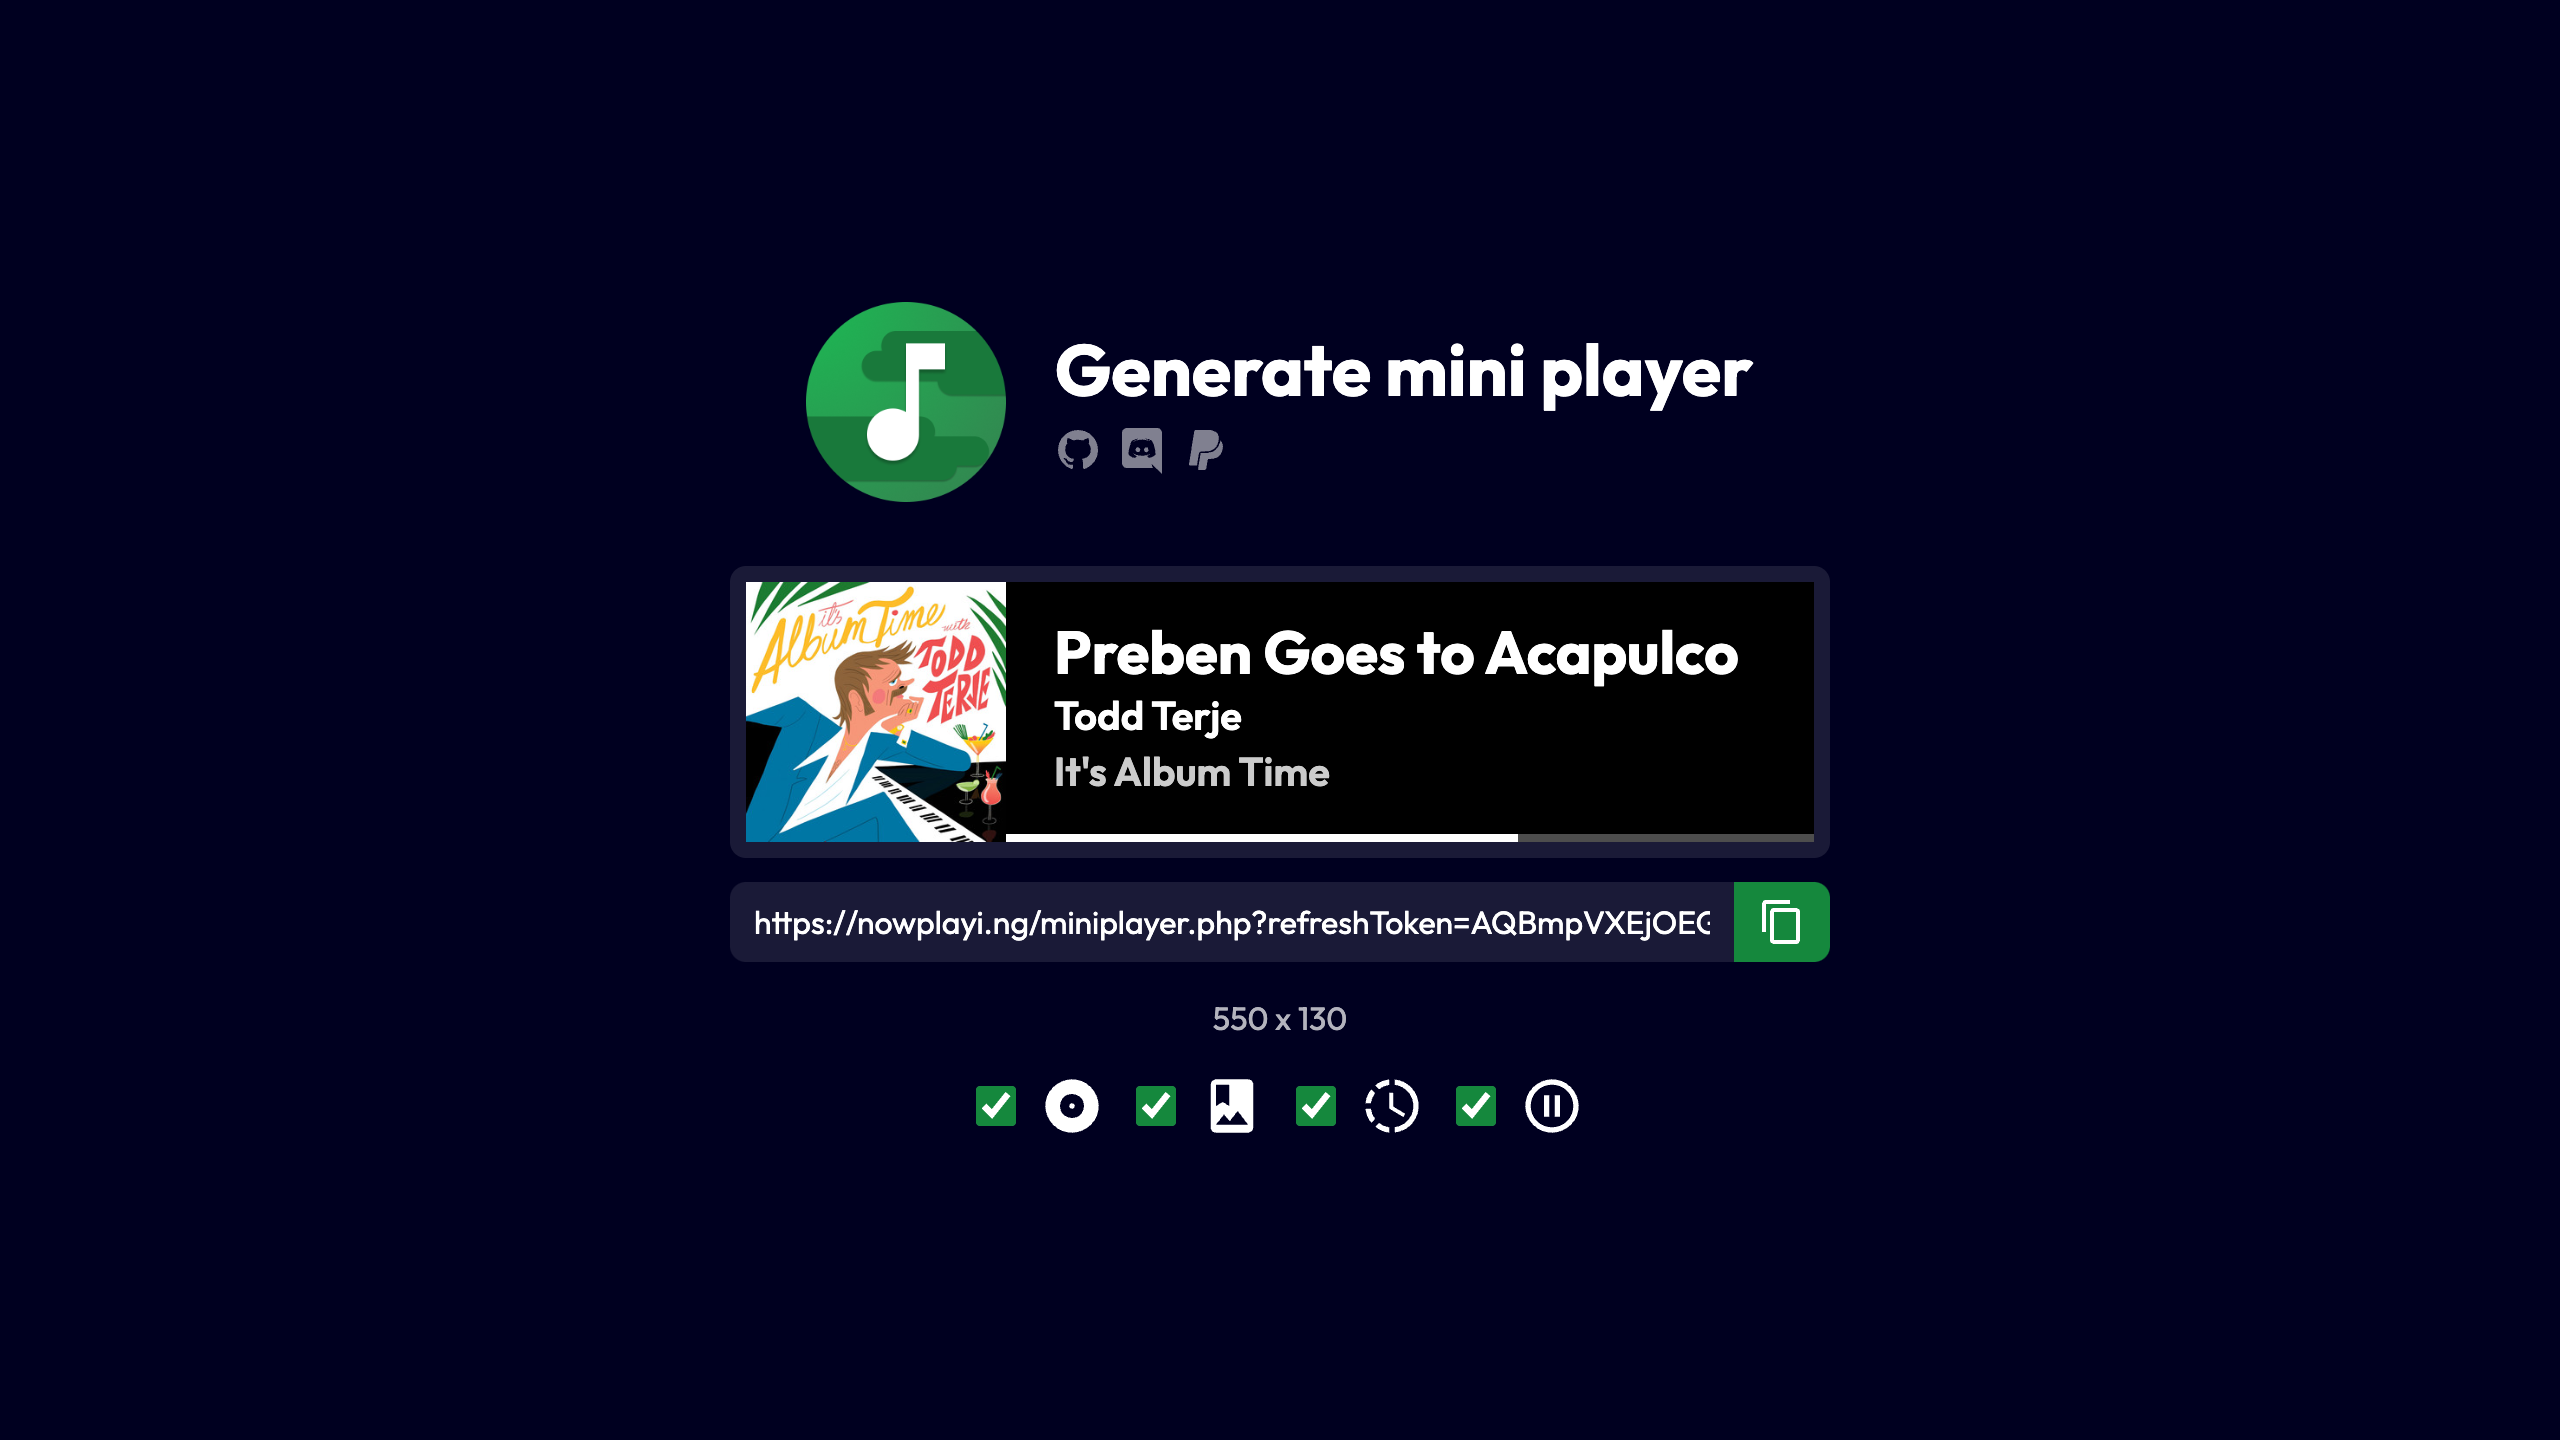
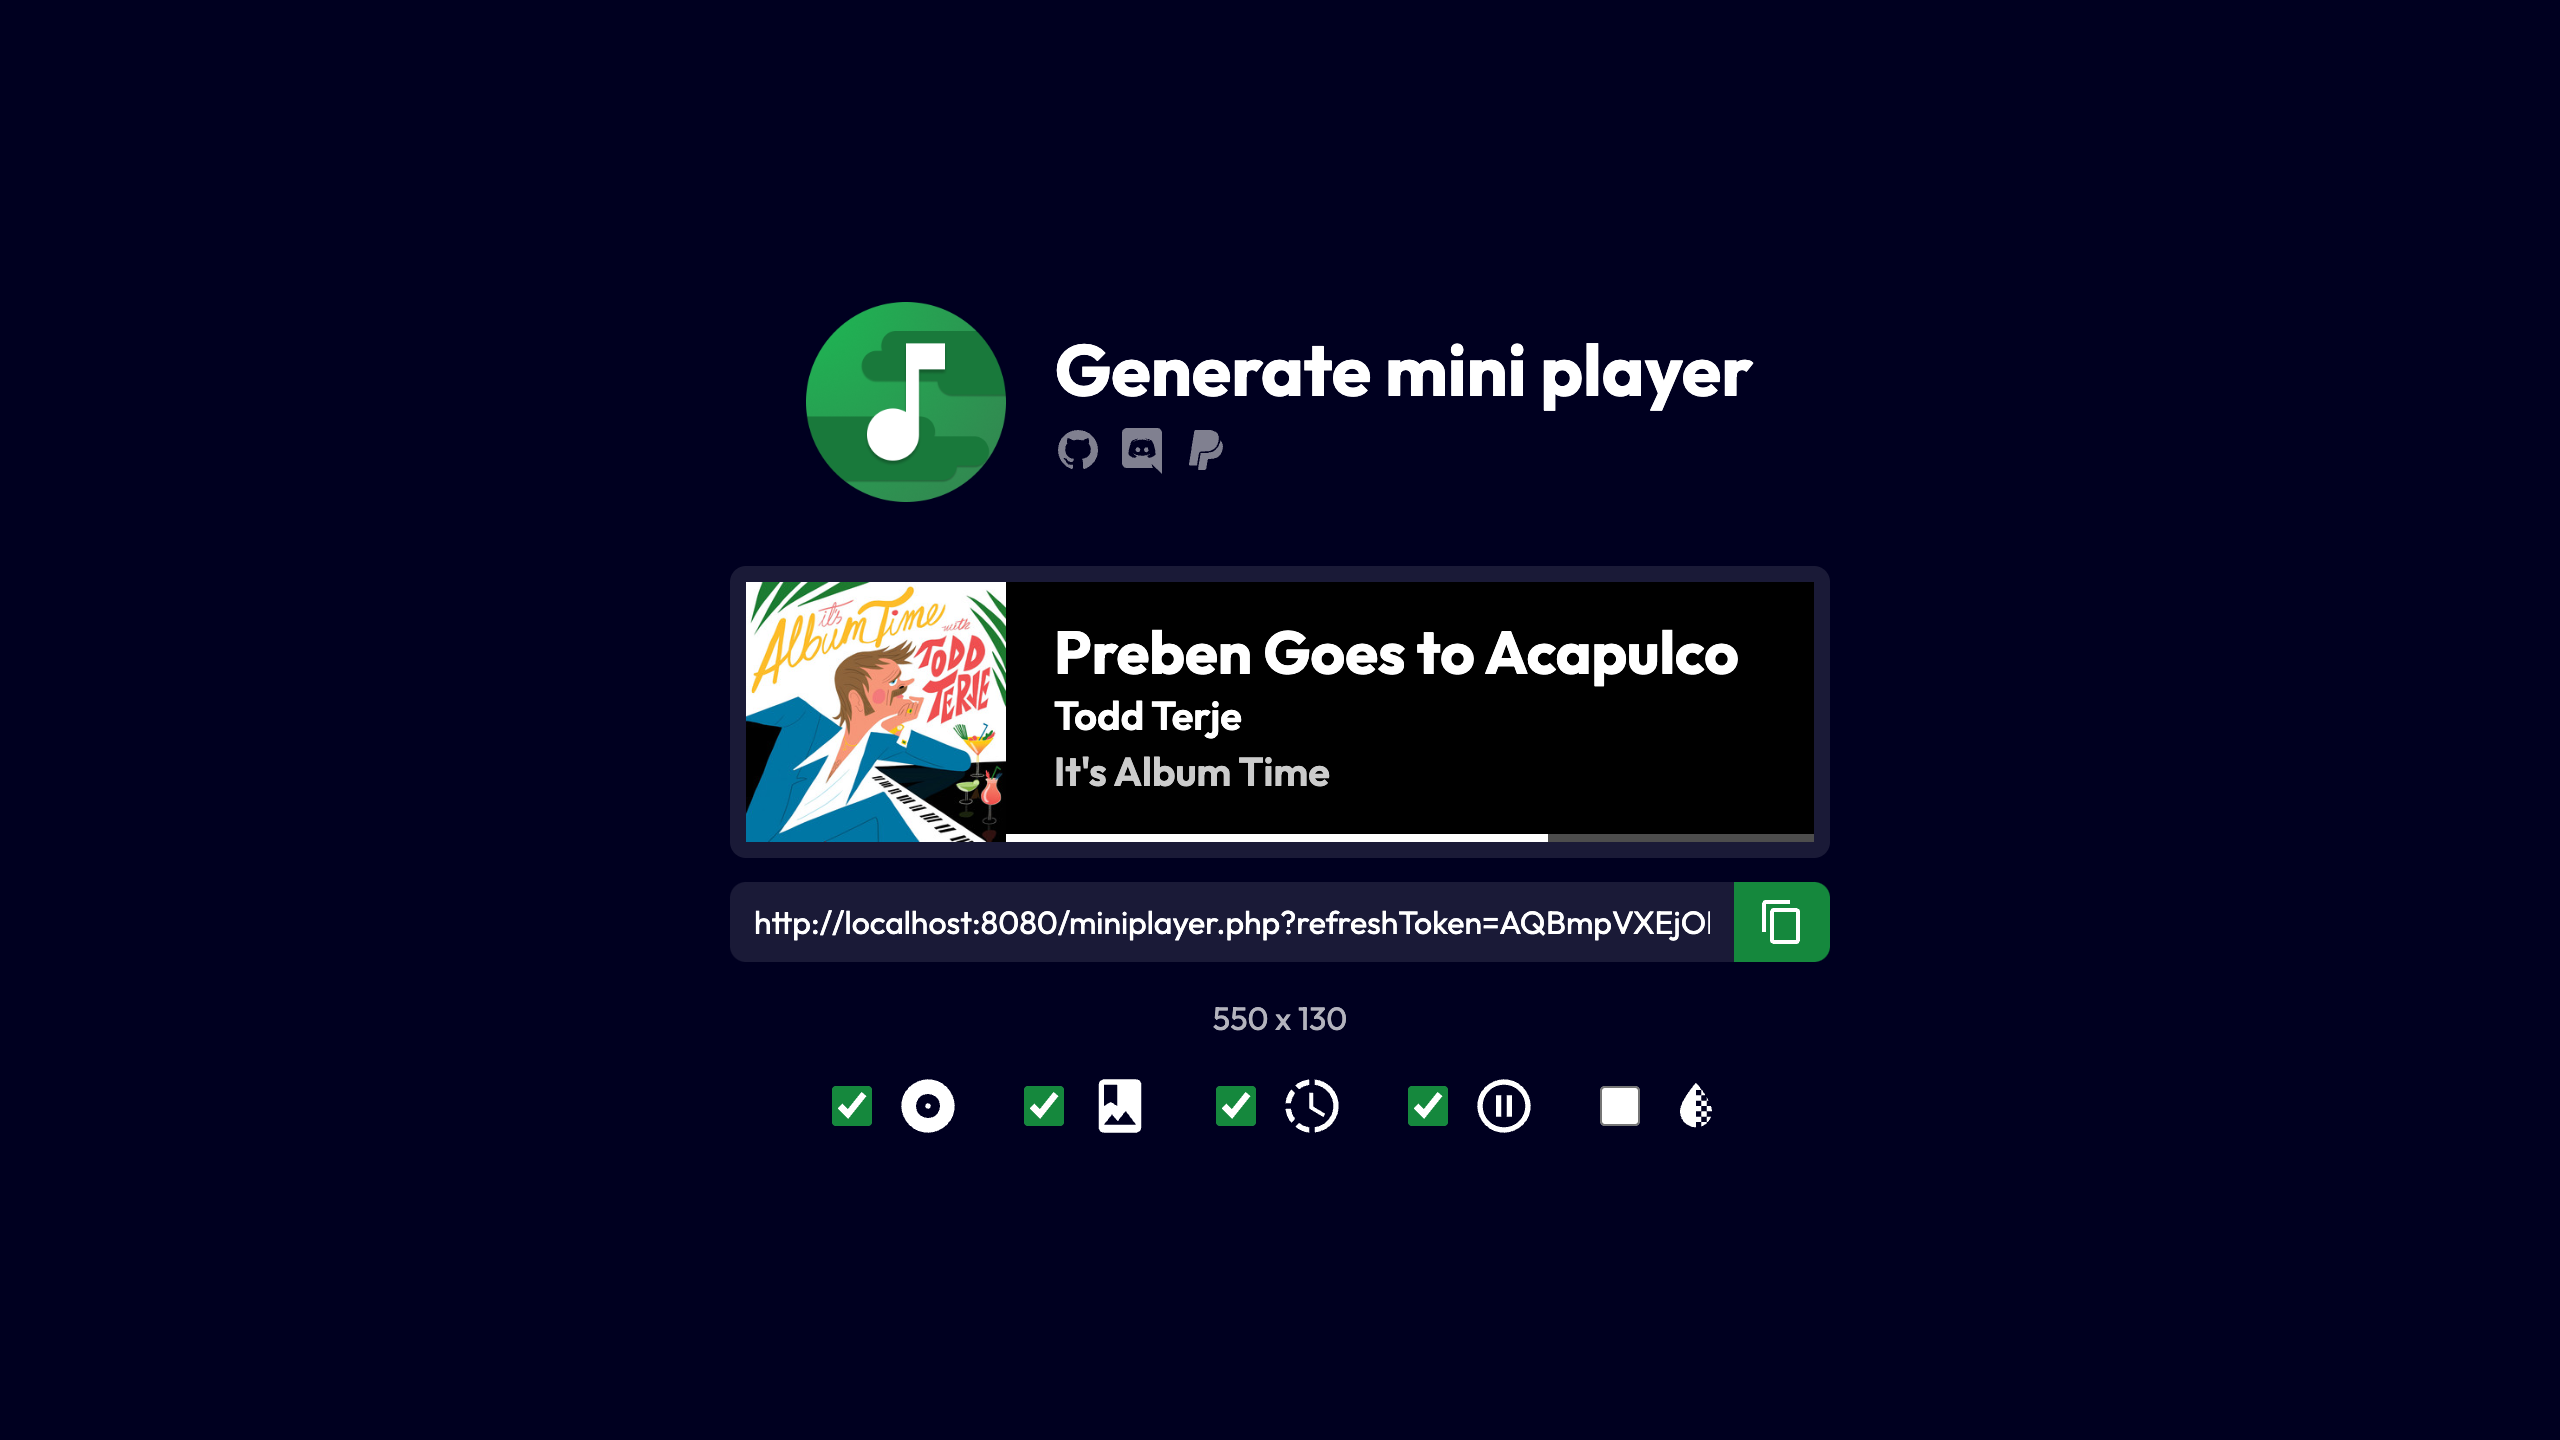
miniplayer: Transparent background setting

Changed region(s): [[0.3125, 0.75, 0.6875, 0.8125], [0.3125, 0.625, 0.6875, 0.6562]]

diff --git a/generate_miniplayer.php b/generate_miniplayer.php
@@ -134,7 +134,7 @@ if(isset($_GET['lang'])){
     <span class="mt-4 text-white/70 hover:text-white transition">550 x 130</span>
 
     <!-- Config player -->
-    <div class="flex flex-row gap-4 flex-wrap mt-4">
+    <div class="flex flex-row gap-8 flex-wrap mt-4">
       <div class="flex flex-row gap-3 items-center">
         <input type="checkbox" id="showAlbum" x-model="playerConfig.showAlbum" class="accent-[#15883D] h-5 w-5">
         <label for="showAlbum">
@@ -145,21 +145,28 @@ if(isset($_GET['lang'])){
       <div class="flex flex-row gap-3 items-center">
         <input type="checkbox" id="showArtwork" x-model="playerConfig.showArtwork" class="accent-[#15883D] h-5 w-5">
         <label for="showArtwork">
-        <svg xmlns="http://www.w3.org/2000/svg" viewBox="0 0 24 24" class="h-8 w-8" fill="currentColor"><path d="M6,19L9,15.14L11.14,17.72L14.14,13.86L18,19H6M6,4H11V12L8.5,10.5L6,12M18,2H6A2,2 0 0,0 4,4V20A2,2 0 0,0 6,22H18A2,2 0 0,0 20,20V4A2,2 0 0,0 18,2Z" /></svg>
+          <svg xmlns="http://www.w3.org/2000/svg" viewBox="0 0 24 24" class="h-8 w-8" fill="currentColor"><path d="M6,19L9,15.14L11.14,17.72L14.14,13.86L18,19H6M6,4H11V12L8.5,10.5L6,12M18,2H6A2,2 0 0,0 4,4V20A2,2 0 0,0 6,22H18A2,2 0 0,0 20,20V4A2,2 0 0,0 18,2Z" /></svg>
         </label>
       </div>
 
       <div class="flex flex-row gap-3 items-center">
         <input type="checkbox" id="showProgress" x-model="playerConfig.showProgress" class="accent-[#15883D] h-5 w-5">
         <label for="showProgress">
-        <svg xmlns="http://www.w3.org/2000/svg" viewBox="0 0 24 24" class="h-8 w-8" fill="currentColor"><path d="M13,2.03V2.05L13,4.05C17.39,4.59 20.5,8.58 19.96,12.97C19.5,16.61 16.64,19.5 13,19.93V21.93C18.5,21.38 22.5,16.5 21.95,11C21.5,6.25 17.73,2.5 13,2.03M11,2.06C9.05,2.25 7.19,3 5.67,4.26L7.1,5.74C8.22,4.84 9.57,4.26 11,4.06V2.06M4.26,5.67C3,7.19 2.25,9.04 2.05,11H4.05C4.24,9.58 4.8,8.23 5.69,7.1L4.26,5.67M2.06,13C2.26,14.96 3.03,16.81 4.27,18.33L5.69,16.9C4.81,15.77 4.24,14.42 4.06,13H2.06M7.1,18.37L5.67,19.74C7.18,21 9.04,21.79 11,22V20C9.58,19.82 8.23,19.25 7.1,18.37M12.5,7V12.25L17,14.92L16.25,16.15L11,13V7H12.5Z" /></svg>
+          <svg xmlns="http://www.w3.org/2000/svg" viewBox="0 0 24 24" class="h-8 w-8" fill="currentColor"><path d="M13,2.03V2.05L13,4.05C17.39,4.59 20.5,8.58 19.96,12.97C19.5,16.61 16.64,19.5 13,19.93V21.93C18.5,21.38 22.5,16.5 21.95,11C21.5,6.25 17.73,2.5 13,2.03M11,2.06C9.05,2.25 7.19,3 5.67,4.26L7.1,5.74C8.22,4.84 9.57,4.26 11,4.06V2.06M4.26,5.67C3,7.19 2.25,9.04 2.05,11H4.05C4.24,9.58 4.8,8.23 5.69,7.1L4.26,5.67M2.06,13C2.26,14.96 3.03,16.81 4.27,18.33L5.69,16.9C4.81,15.77 4.24,14.42 4.06,13H2.06M7.1,18.37L5.67,19.74C7.18,21 9.04,21.79 11,22V20C9.58,19.82 8.23,19.25 7.1,18.37M12.5,7V12.25L17,14.92L16.25,16.15L11,13V7H12.5Z" /></svg>
         </label>
       </div>
 
       <div class="flex flex-row gap-3 items-center">
         <input type="checkbox" id="showPause" x-model="playerConfig.showPause" class="accent-[#15883D] h-5 w-5">
         <label for="showPause">
-        <svg xmlns="http://www.w3.org/2000/svg" viewBox="0 0 24 24" class="h-8 w-8" fill="currentColor"><path d="M13,16V8H15V16H13M9,16V8H11V16H9M12,2A10,10 0 0,1 22,12A10,10 0 0,1 12,22A10,10 0 0,1 2,12A10,10 0 0,1 12,2M12,4A8,8 0 0,0 4,12A8,8 0 0,0 12,20A8,8 0 0,0 20,12A8,8 0 0,0 12,4Z" /></svg>
+          <svg xmlns="http://www.w3.org/2000/svg" viewBox="0 0 24 24" class="h-8 w-8" fill="currentColor"><path d="M13,16V8H15V16H13M9,16V8H11V16H9M12,2A10,10 0 0,1 22,12A10,10 0 0,1 12,22A10,10 0 0,1 2,12A10,10 0 0,1 12,2M12,4A8,8 0 0,0 4,12A8,8 0 0,0 12,20A8,8 0 0,0 20,12A8,8 0 0,0 12,4Z" /></svg>
+        </label>
+      </div>
+
+      <div class="flex flex-row gap-3 items-center">
+        <input type="checkbox" id="transparentBackground" x-model="playerConfig.transparentBackground" class="accent-[#15883D] h-5 w-5">
+        <label for="transparentBackground">
+          <svg xmlns="http://www.w3.org/2000/svg" viewBox="0 0 24 24" class="h-8 w-8" fill="currentColor"><path d="M16 14V12H17.61C17.85 12.71 18 13.39 18 14H16M15.58 8C15.12 7.29 14.65 6.61 14.2 6H14V8H15.58M16 12V10H14V12H16M16 8.68V10H16.74C16.5 9.56 16.26 9.11 16 8.68M12 16V14H14V12H12V10H14V8H12V6H14V5.73C12.9 4.26 12 3.25 12 3.25S6 10 6 14C6 17.31 8.69 20 12 20V18H14V16H12M14 19.65C14.75 19.39 15.42 19 16 18.46V18H14V19.65M14 16H16V14H14V16M16 18H16.46C17 17.42 17.39 16.75 17.65 16H16V18Z" /></svg>
         </label>
       </div>
     </div>
@@ -174,6 +181,7 @@ if(isset($_GET['lang'])){
           showArtwork: true,
           showProgress: true,
           showPause: true,
+          transparentBackground: false,
         },
 
         makeUrl() {

diff --git a/miniplayer.php b/miniplayer.php
@@ -39,6 +39,7 @@ include_once('lang.php');
         showProgress: urlParams.get('showProgress') !== 'false',
         showArtwork: urlParams.get('showArtwork') !== 'false',
         showPause: urlParams.get('showPause') !== 'false',
+        transparentBackground: urlParams.get('transparentBackground') === 'true',
 
         useSmallAlbumCover: true,
       }
@@ -57,7 +58,9 @@ include_once('lang.php');
         ...window.playerConfig,
     }"
     class="h-screen w-screen"
-    style="background-color: black;"
+    :style="{
+      'background-color': transparentBackground ? 'transparent' : '#000000',
+    }"
 >
     <div class="flex flex-row justify-center items-center h-screen">
         <div class="relative h-full w-auto flex-shrink-0">
